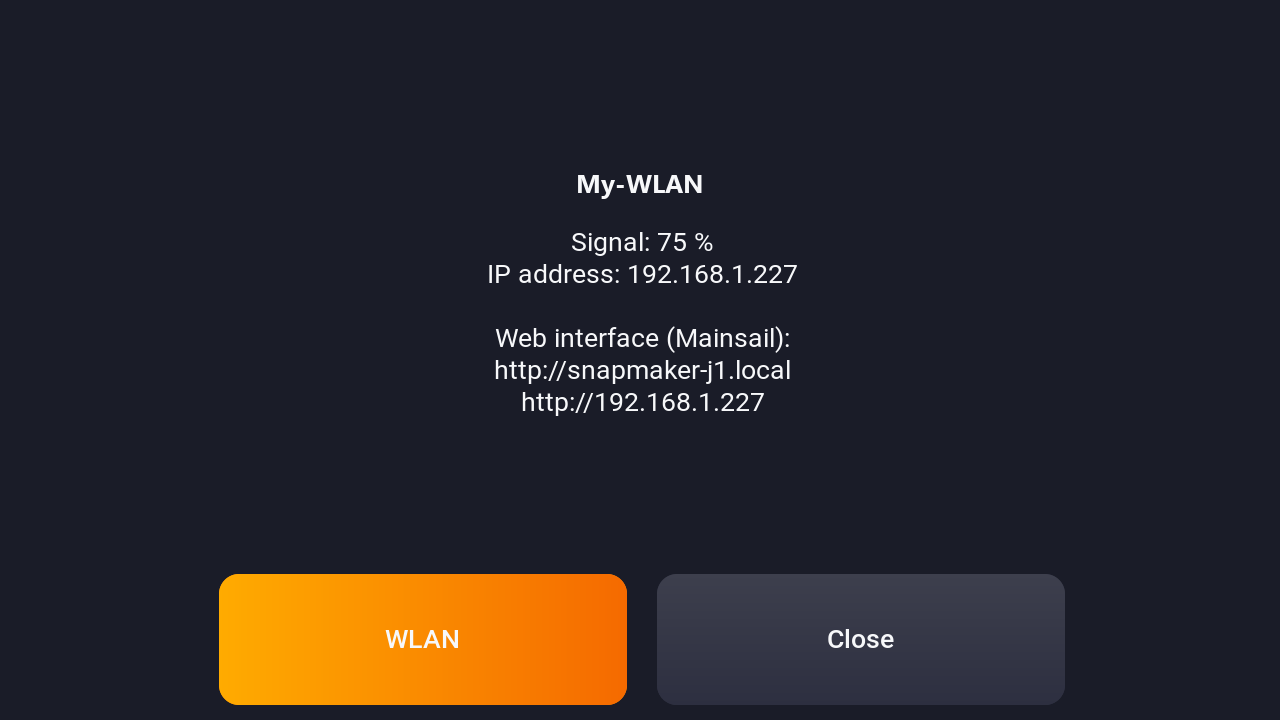
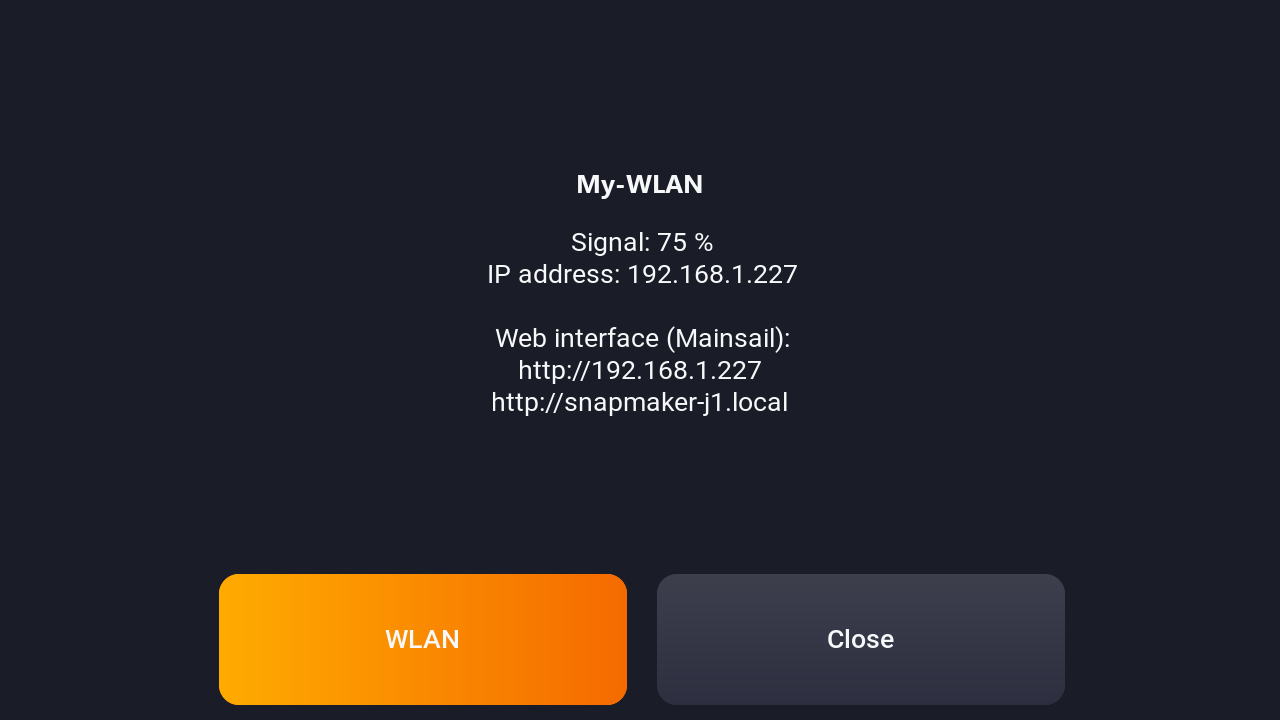
KlipperScreen: IP address first in the WLAN window
<name>.local needs mDNS, which some networks block; the manual and the
README point to the IP address shown by the WLAN symbol.

Changed region(s): [[0.375, 0.4889, 0.625, 0.5806]]

diff --git a/klipperscreen/snapmaker_j1/wifi.py b/klipperscreen/snapmaker_j1/wifi.py
@@ -137,11 +137,13 @@ class WifiIcon:
             lines.append("")
             lines.append(GLib.markup_escape_text(
                 _("Web interface (Mainsail):")))
-            lines.append(GLib.markup_escape_text(
-                "http://%s.local" % (socket.gethostname(),)))
+            # The IP address first: <name>.local needs mDNS, which some
+            # networks block
             if status["ip"] != "?":
                 lines.append(GLib.markup_escape_text(
                     "http://%s" % (status["ip"],)))
+            lines.append(GLib.markup_escape_text(
+                "http://%s.local" % (socket.gethostname(),)))
         else:
             lines.append("<b>%s</b>" % GLib.markup_escape_text(
                 _("Not connected")))

diff --git a/docs/Manual.md b/docs/Manual.md
@@ -736,9 +736,11 @@ The protections of the stock firmware are active:
 Besides the touch screen, the printer is operated from any browser in the
 network with **Mainsail**, which runs on the printer itself.  Open
 `http://snapmaker-j1.local`, or the name set in
-[Network Name](#network), or the IP address shown in
-KlipperScreen.  Touch screen and web interface work at the same time and
-always show the same state.
+[Network Name](#network), or the IP address: a tap on the WLAN symbol in
+the title bar shows it.  `.local` needs mDNS, which some networks block
+(some routers, mesh systems, guest networks); if it does not open, use
+the IP address.  Touch screen and web interface work at the same time
+and always show the same state.
 
 ### Dashboard
 

diff --git a/README.md b/README.md
@@ -135,7 +135,9 @@ interrupted by a power loss.
 <img src="docs/manual/web-dashboard.png" width="860" alt="Mainsail dashboard">
 </p>
 
-Mainsail runs on the printer: open `http://snapmaker-j1.local`.  The
+Mainsail runs on the printer: open `http://snapmaker-j1.local`, or the
+IP address that the WLAN symbol on the screen shows (if your network
+does not resolve `.local`).  The
 dialogs of the printer appear there too, the panel **Snapmaker J1**
 chooses the print mode, and the slicer uploads and starts prints directly.
 
